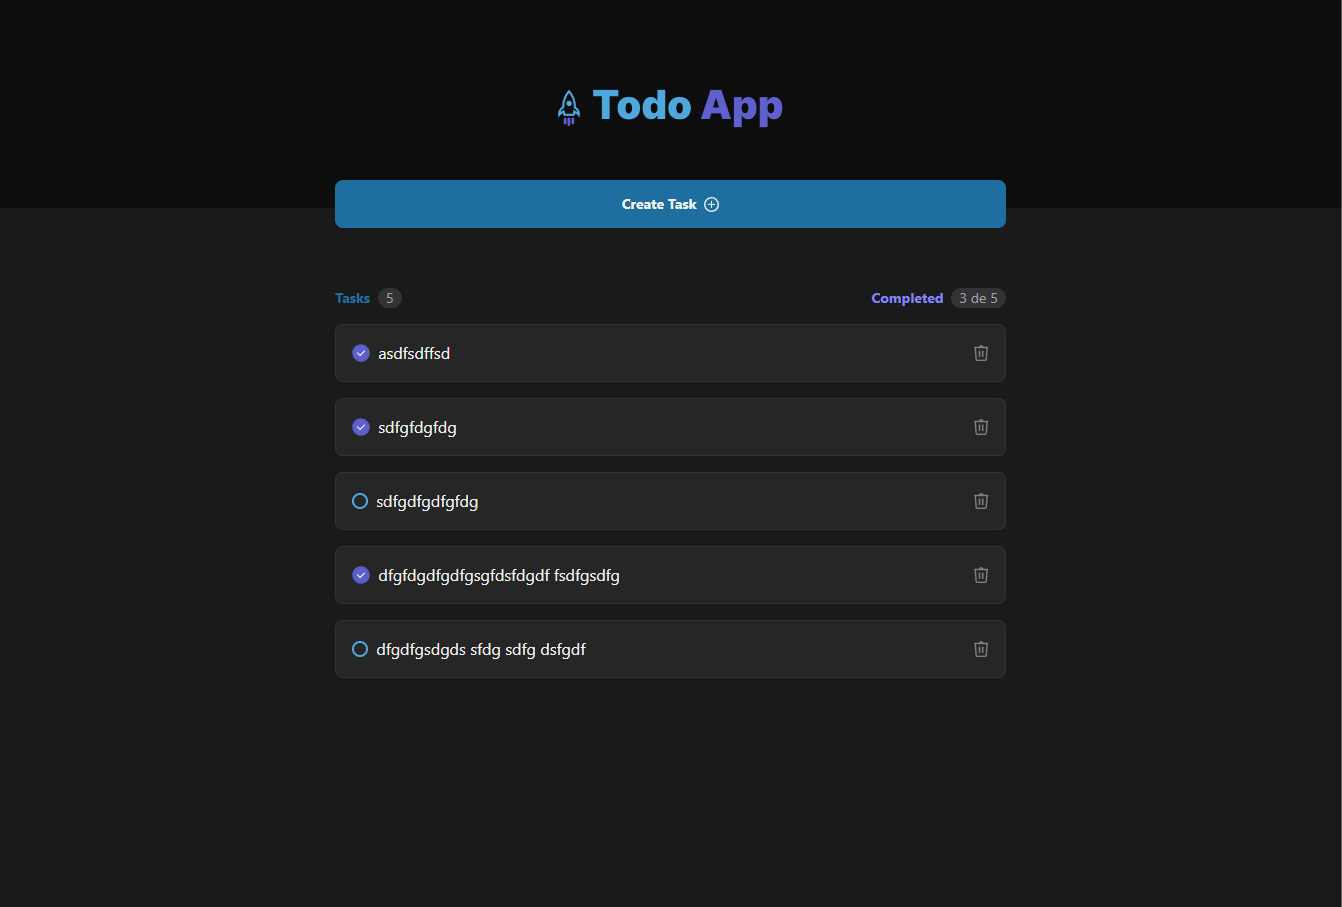
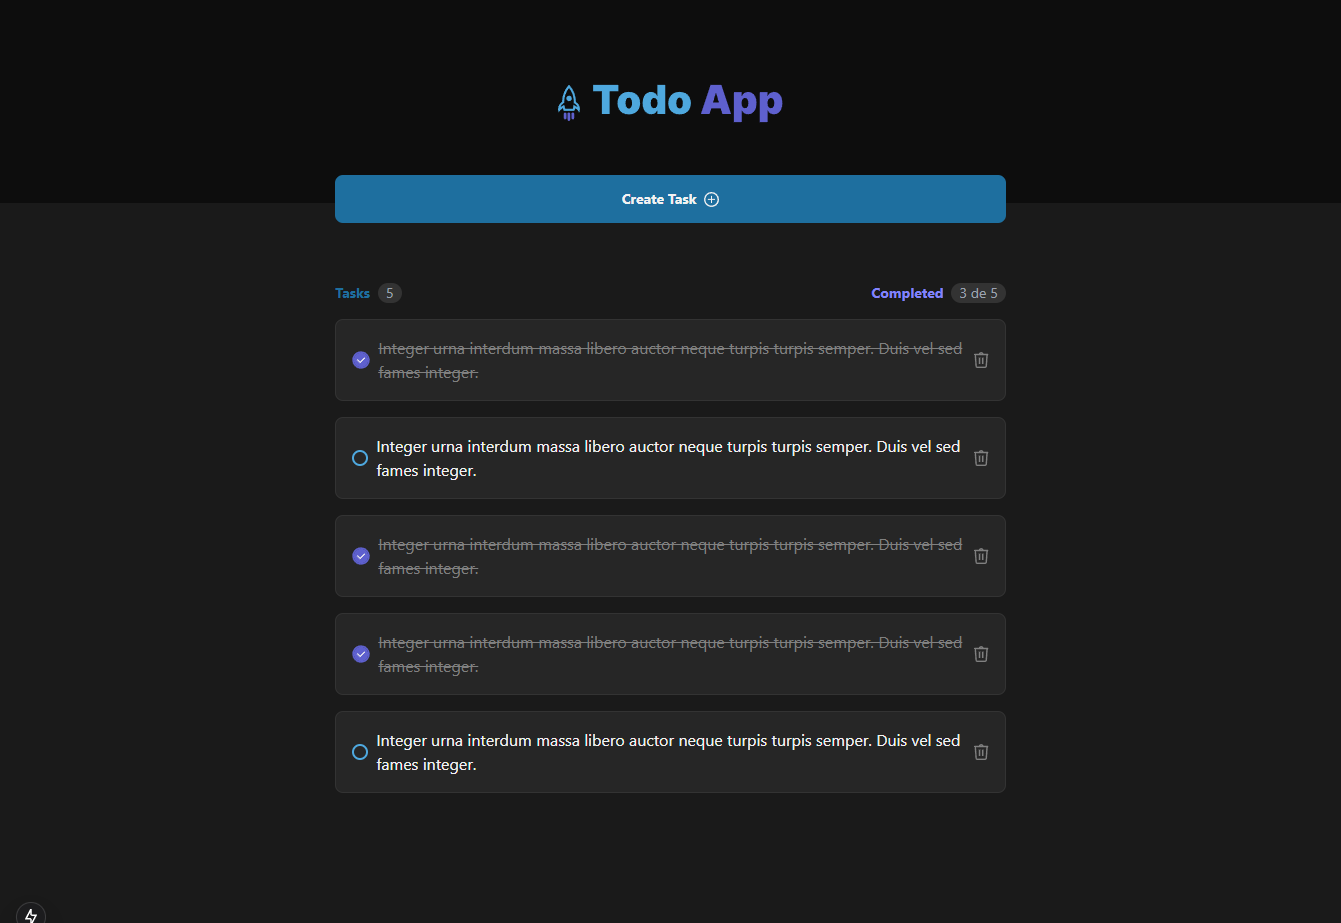
minor changes updated

diff --git a/app/page.tsx b/app/page.tsx
@@ -120,7 +120,7 @@ const TodoList = () => {
                 ) : (
                   <span className="rounded-full w-4 h-4 border-2 border-lightBlue shrink-0 cursor-pointer" onClick={() => handleToggleCompleted(todo.id)}></span>
                 )}
-                <span className="text-white ml-2 cursor-pointer" onClick={() => handleCreate(todo)}>{todo.title}</span>
+                <span className={`${todo.completed ? "text-grey" : "text-white"} ml-2 cursor-pointer ${todo.completed ? "line-through" : ""}`} onClick={() => handleCreate(todo)}>{todo.title}</span>
                 <span className="ml-auto cursor-pointer shrink-0" onClick={() => handleDelete(todo.id)}>
                   <Image src="/trash.svg" alt="trash" width="15" height="15" />
                 </span>
